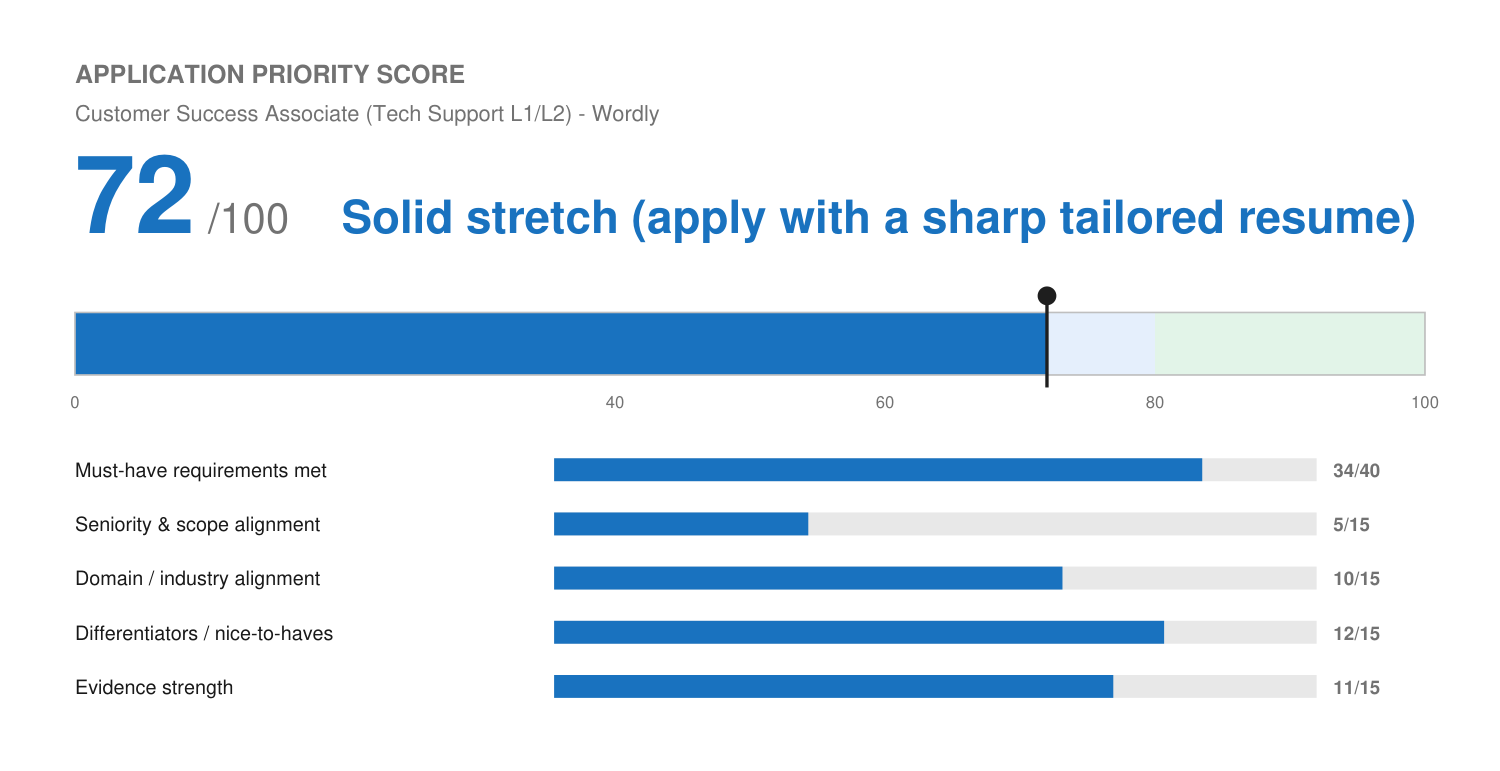
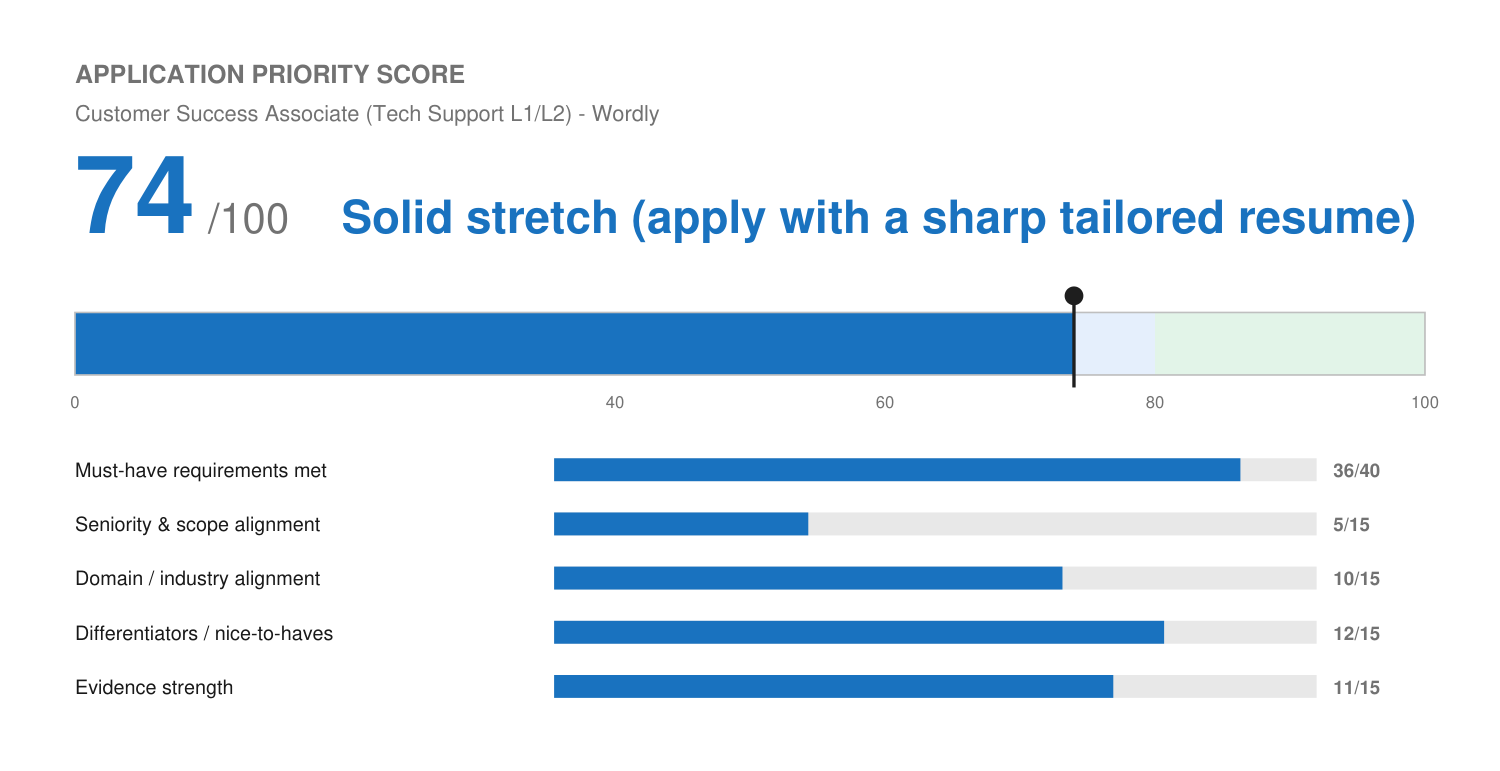
Wordly Customer Success Associate: score 74 after confirmations; profile adds GMT hours, Zendesk ticket queue, entry-level pay
Claude-Session: https://claude.ai/code/session_018DEej5NGjq1omj9BTtvEiy

Changed region(s): [[0.6747, 0.3735, 0.736, 0.4981], [0.092, 0.1868, 0.1533, 0.3113], [0.7973, 0.5914, 0.828, 0.6226]]

diff --git a/applications/wordly-customer-success-associate/match-report.md b/applications/wordly-customer-success-associate/match-report.md
@@ -24,14 +24,14 @@ No knockout. No cap. No video answer.
 
 ## Application Priority Score
 
-⚪ **72 / 100 — Solid stretch (apply with a sharp tailored resume)**
-`[██████████████░░░░░░]  72%`
+⚪ **74 / 100 — Solid stretch (apply with a sharp tailored resume)**
+`[███████████████░░░░░]  74%`
 
 *Internal decision aid, not a prediction of Wordly's screening outcome.* See `fit.png`.
 
 | Dimension | Score | Max |
 | :--- | :---: | :---: |
-| Must-have requirements met | 34 | 40 |
+| Must-have requirements met | 36 | 40 |
 | Seniority & scope alignment | 5 | 15 |
 | Domain / industry alignment | 10 | 15 |
 | Differentiators / nice-to-haves | 12 | 15 |
@@ -51,18 +51,20 @@ Skills fit well (AI output validation, data labeling, data hygiene, customer set
 | Attention to detail | Strong | Import validation, rubric grading |
 | Validate output via human and machine testing | Strong | AI output evaluation, rubric-based grading, data labeling |
 | Technical and consultative support, best practices | Strong | Birdeye, Wix onboarding |
-| Ticket triage, knowledge bases | Adjacent | Zendesk listed; formal ticket queue not documented |
+| Ticket triage, knowledge bases | Strong | Confirmed Oct 2026: formal ticket queue (Zendesk) |
 | CS workflows, tracking, reporting | Strong | Wix Salesforce fields; dashboards |
 
 ## Gaps
 - Seniority mismatch (entry level).
-- Formal support-ticket queue experience not documented.
 - No glossary/terminology or translation experience; English only.
 
 ## Candidate Confirmation Needed
-- **GMT hours** (very early mornings Mountain Time): yes or no?
-- Pay expectation for an entry-level role.
-- Any formal ticketing work (Zendesk queue, SLAs)?
+- Resolved Oct 6, 2026: GMT hours OK; entry-level pay OK; has worked a formal Zendesk ticket queue. All added to `master-profile.md`.
+
+## Application Answers
+- **Hours aligned to GMT:** Yes.
+- **Pay expectation:** "Open to your range for this role."
+- **Location:** Colorado, US.
 
 ## Output Files
 - `Wordly-CustomerSuccessAssociate-Resume.pdf` / `.docx` (1 page)

diff --git a/profile/master-profile.md b/profile/master-profile.md
@@ -57,6 +57,16 @@
 > **Non-standard schedules:** evenings, weekends, and holidays are acceptable for the right
 > role (confirmed Aug 2026 re: DCPA).
 >
+> **Early-morning / GMT-aligned hours (confirmed by Josh, Oct 2026, Wordly):** willing to work
+> UK/GMT business hours from Colorado (roughly 2-3am to 10-11am Mountain). Answer yes.
+>
+> **Support ticket queues (confirmed by Josh, Oct 2026):** has worked a formal support-ticket
+> queue (Zendesk-style triage and resolution). Employer/role not captured; claim in
+> competencies and role-agnostic summary lines until Josh says where.
+>
+> **Entry-level pay (Josh, Oct 2026):** willing to accept entry-level pay for the right role
+> (Wordly). On forms with no posted range, answer "open to your range for this role."
+>
 > **Video-answer applications (Josh, Oct 2026):** holding off for now on postings that
 > require a Loom or recorded video answer. Not a filter: still run the fit check and build
 > when asked, but flag the video requirement at the top of the fit check so he can decide
